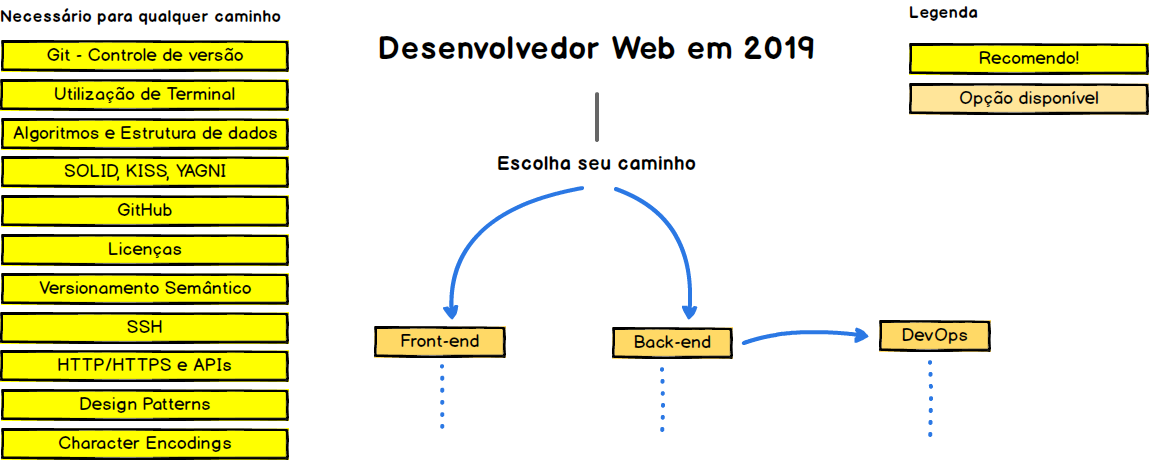
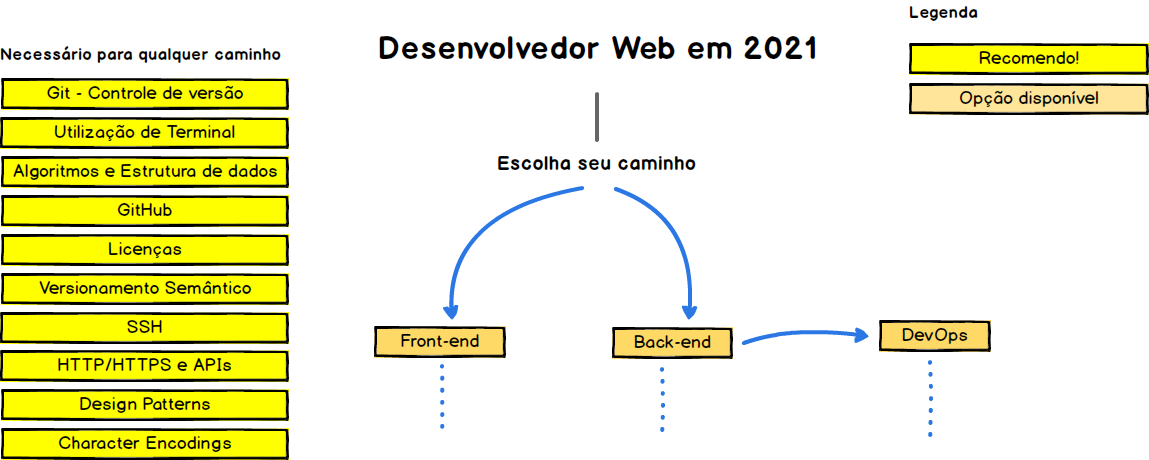
att intro e alt README.md para 2021

Changed region(s): [[0.0, 0.0304, 0.2742, 0.3957], [0.6701, 0.0609, 0.7311, 0.1217]]

diff --git a/README.md b/README.md
@@ -3,23 +3,14 @@
     <img src="https://i.imgur.com/Uid1O3A.png" alt="Roadmap do Desenvolvedor Web" width="96" height="96">
   </a>
   <h2 align="center">Roadmap do Desenvolvedor Web</h2>
-  <p align="center">Roadmap para se tornar um Desenvolvedor Web em 2019</p>
-  <p align="center">
-    <a href="https://github.com/hideraldus13/roadmap-do-desenvolvedor-web#-introduction"><img src="https://img.shields.io/badge/Roadmap-2019-yellowgreen.svg"/></a>
-    <a href="https://twitter.com/hideraldoluis_"><img src="https://img.shields.io/badge/Feedback-%40hideraldoluis__-blue.svg"/></a></a>
-  <br>
-  <span>Português</span> |
-  <a href="https://github.com/kamranahmedse/developer-roadmap">English</a>
-  </p>
-  <br>
+  <p align="center">Roadmap para se tornar um Desenvolvedor Web em 2021</p>
 </p>
 
 Abaixo você encontra, de forma visual, os caminhos que você pode tomar e tecnologias que pode adotar para se tornar um profissional de frontend, backend e devops. 
 
-<sub>Diga "Oi" <br> 
-  <a href="https://medium.com/dev-in-anything"><img src="https://img.shields.io/badge/Medium-Dev%20in%20Anything-lightgrey.svg"/></a><br>
-  <a href="https://twitter.com/hideraldoluis_"><img src="https://img.shields.io/badge/Twitter-%40hideraldoluis__-blue.svg"/></a><br>
-  <a href="https://www.linkedin.com/in/hideraldoluis/"><img src="https://img.shields.io/badge/LinkedIn-%40hideraldoluis_-blue.svg"/></a>
+<sub>Diga "Oi" <br>
+[<img src = "https://img.shields.io/badge/instagram-%23E4405F.svg?&style=for-the-badge&logo=instagram&logoColor=white">](https://www.instagram.com/hideraldojunior/) 
+[<img src="https://img.shields.io/badge/linkedin-%230077B5.svg?&style=for-the-badge&logo=linkedin&logoColor=white" />](https://www.linkedin.com/in/hideraldoluis/) 
 </sub>
 
 ## Aviso
@@ -52,12 +43,12 @@ Se você acredita que os roadmaps podem ser incrementados, por favor abra um <i>
 - Abra <i>Pull Requests</i> com atualizações
 - Discuta ideias em <i>Issues</i>
 - Compartilhe o repositório com a sua comunidade
-- Mande feedbacks no [Twitter](https://twitter.com/hideraldoluis_)
+- Mande feedbacks no [LinkedIn](https://linkedin.com/in/hideraldoluis)
 
 ## Licença
 
-[![License: CC BY-NC-SA 4.0](https://img.shields.io/badge/License-CC%20BY--NC--SA%204.0-lightgrey.svg)](https://creativecommons.org/licenses/by-nc-sa/4.0/) <br>
+[![Licença: CC BY-NC-SA 4.0](https://img.shields.io/badge/License-CC%20BY--NC--SA%204.0-lightgrey.svg)](https://creativecommons.org/licenses/by-nc-sa/4.0/) <br>
 Originalmente criado por [kamranahmedse](https://twitter.com/kamranahmedse) <br>
 Produção original disponível em [developer-roadmap](https://github.com/kamranahmedse/developer-roadmap) <br>
-Traduzido e adaptado por [hideraldoluis_](https://twitter.com/hideraldoluis_) <br>
+Traduzido e adaptado por [hideraldojunior](https://instagram.com/hideraldojunior) <br>
 Revisado por [LuysHNS](https://twitter.com/LuysHNS)
